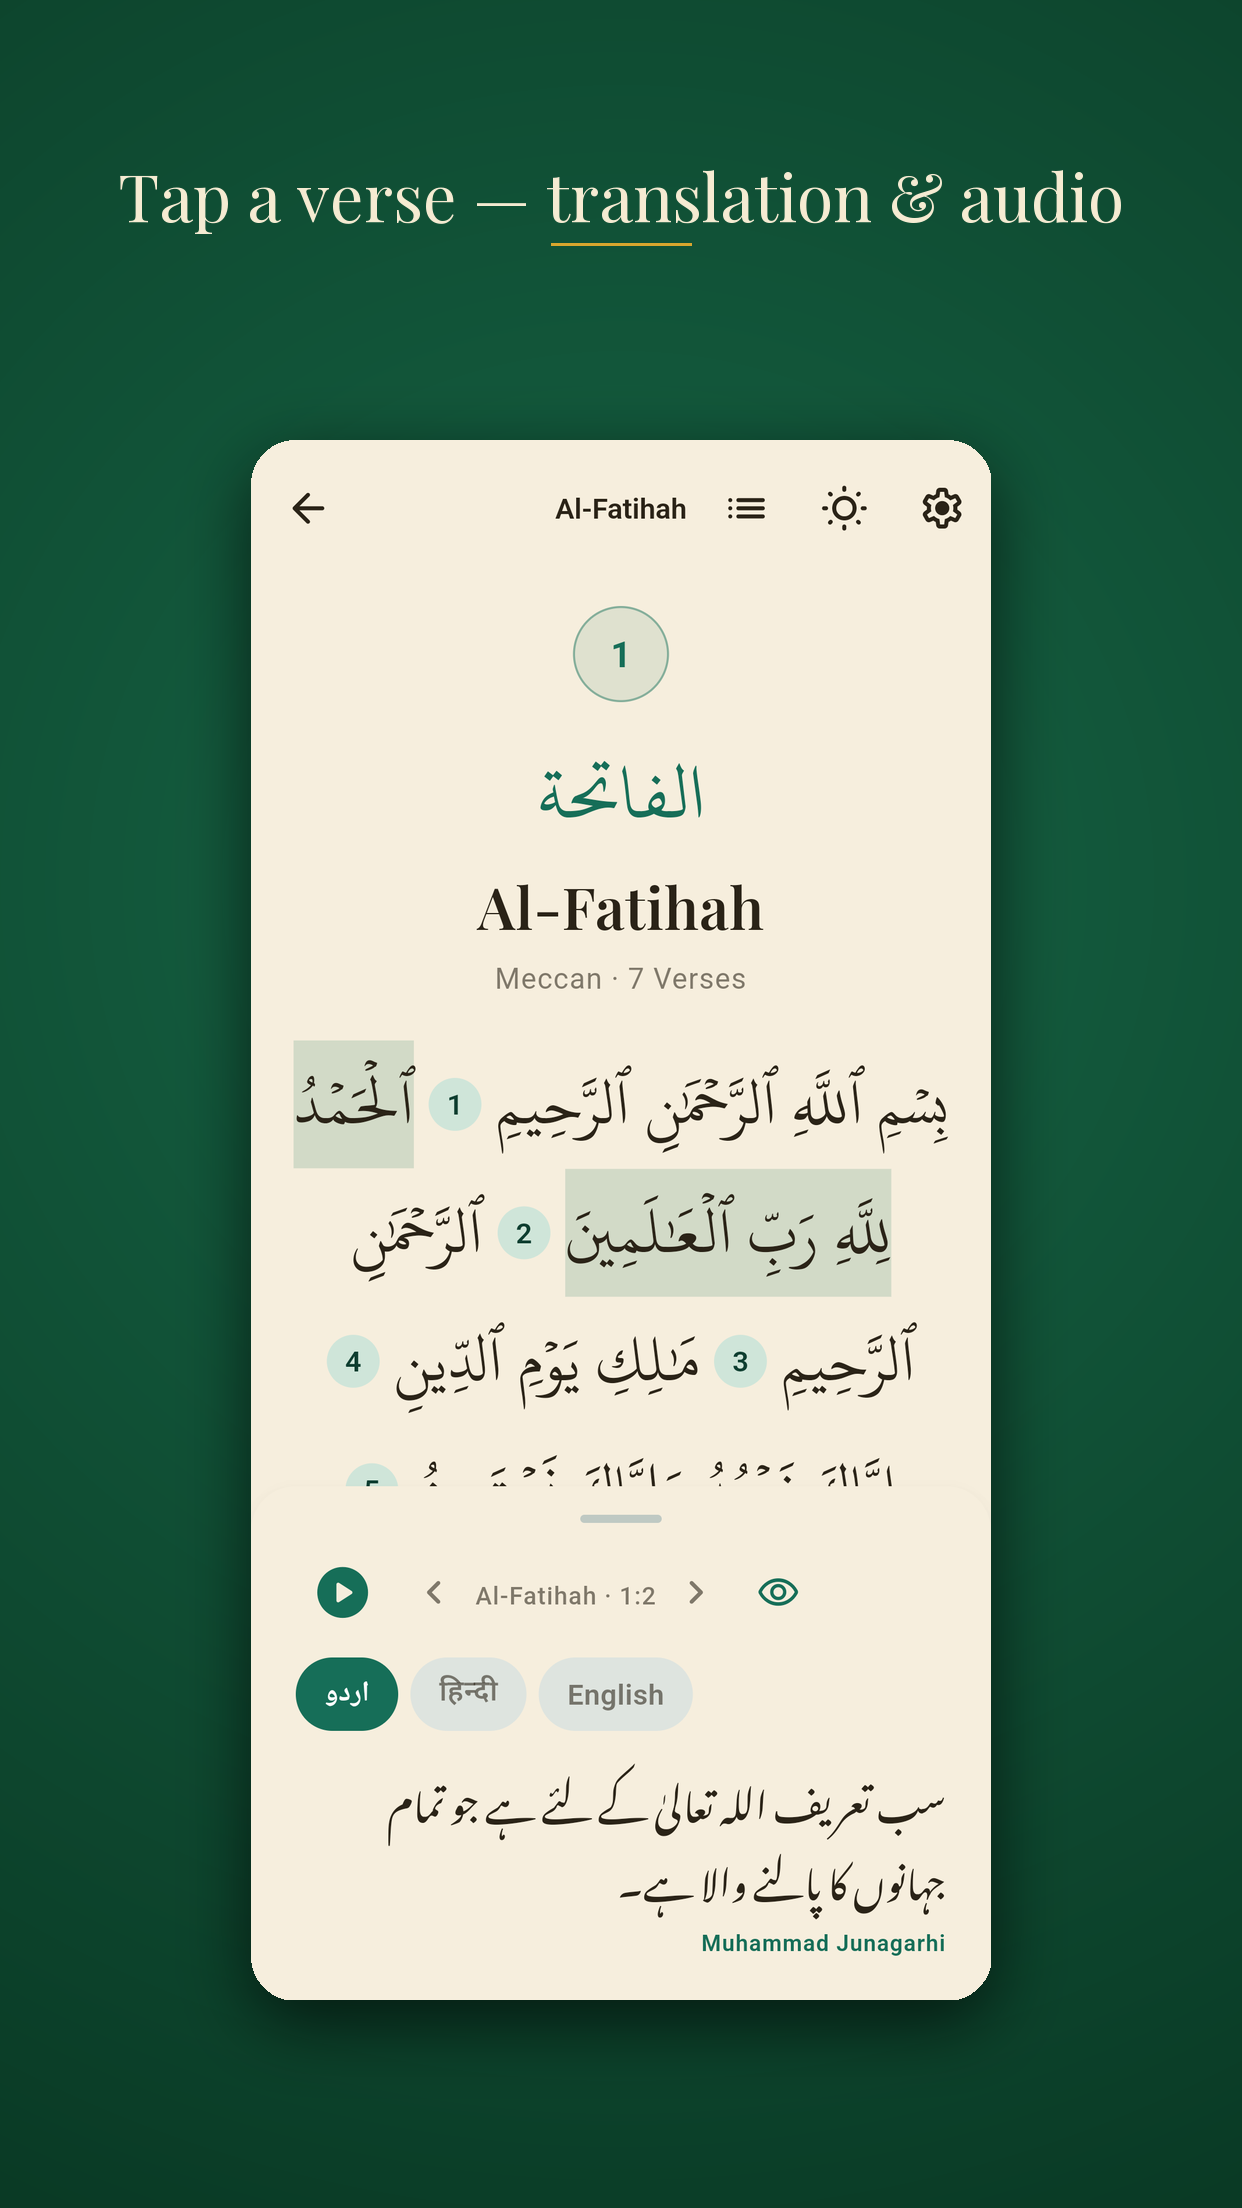
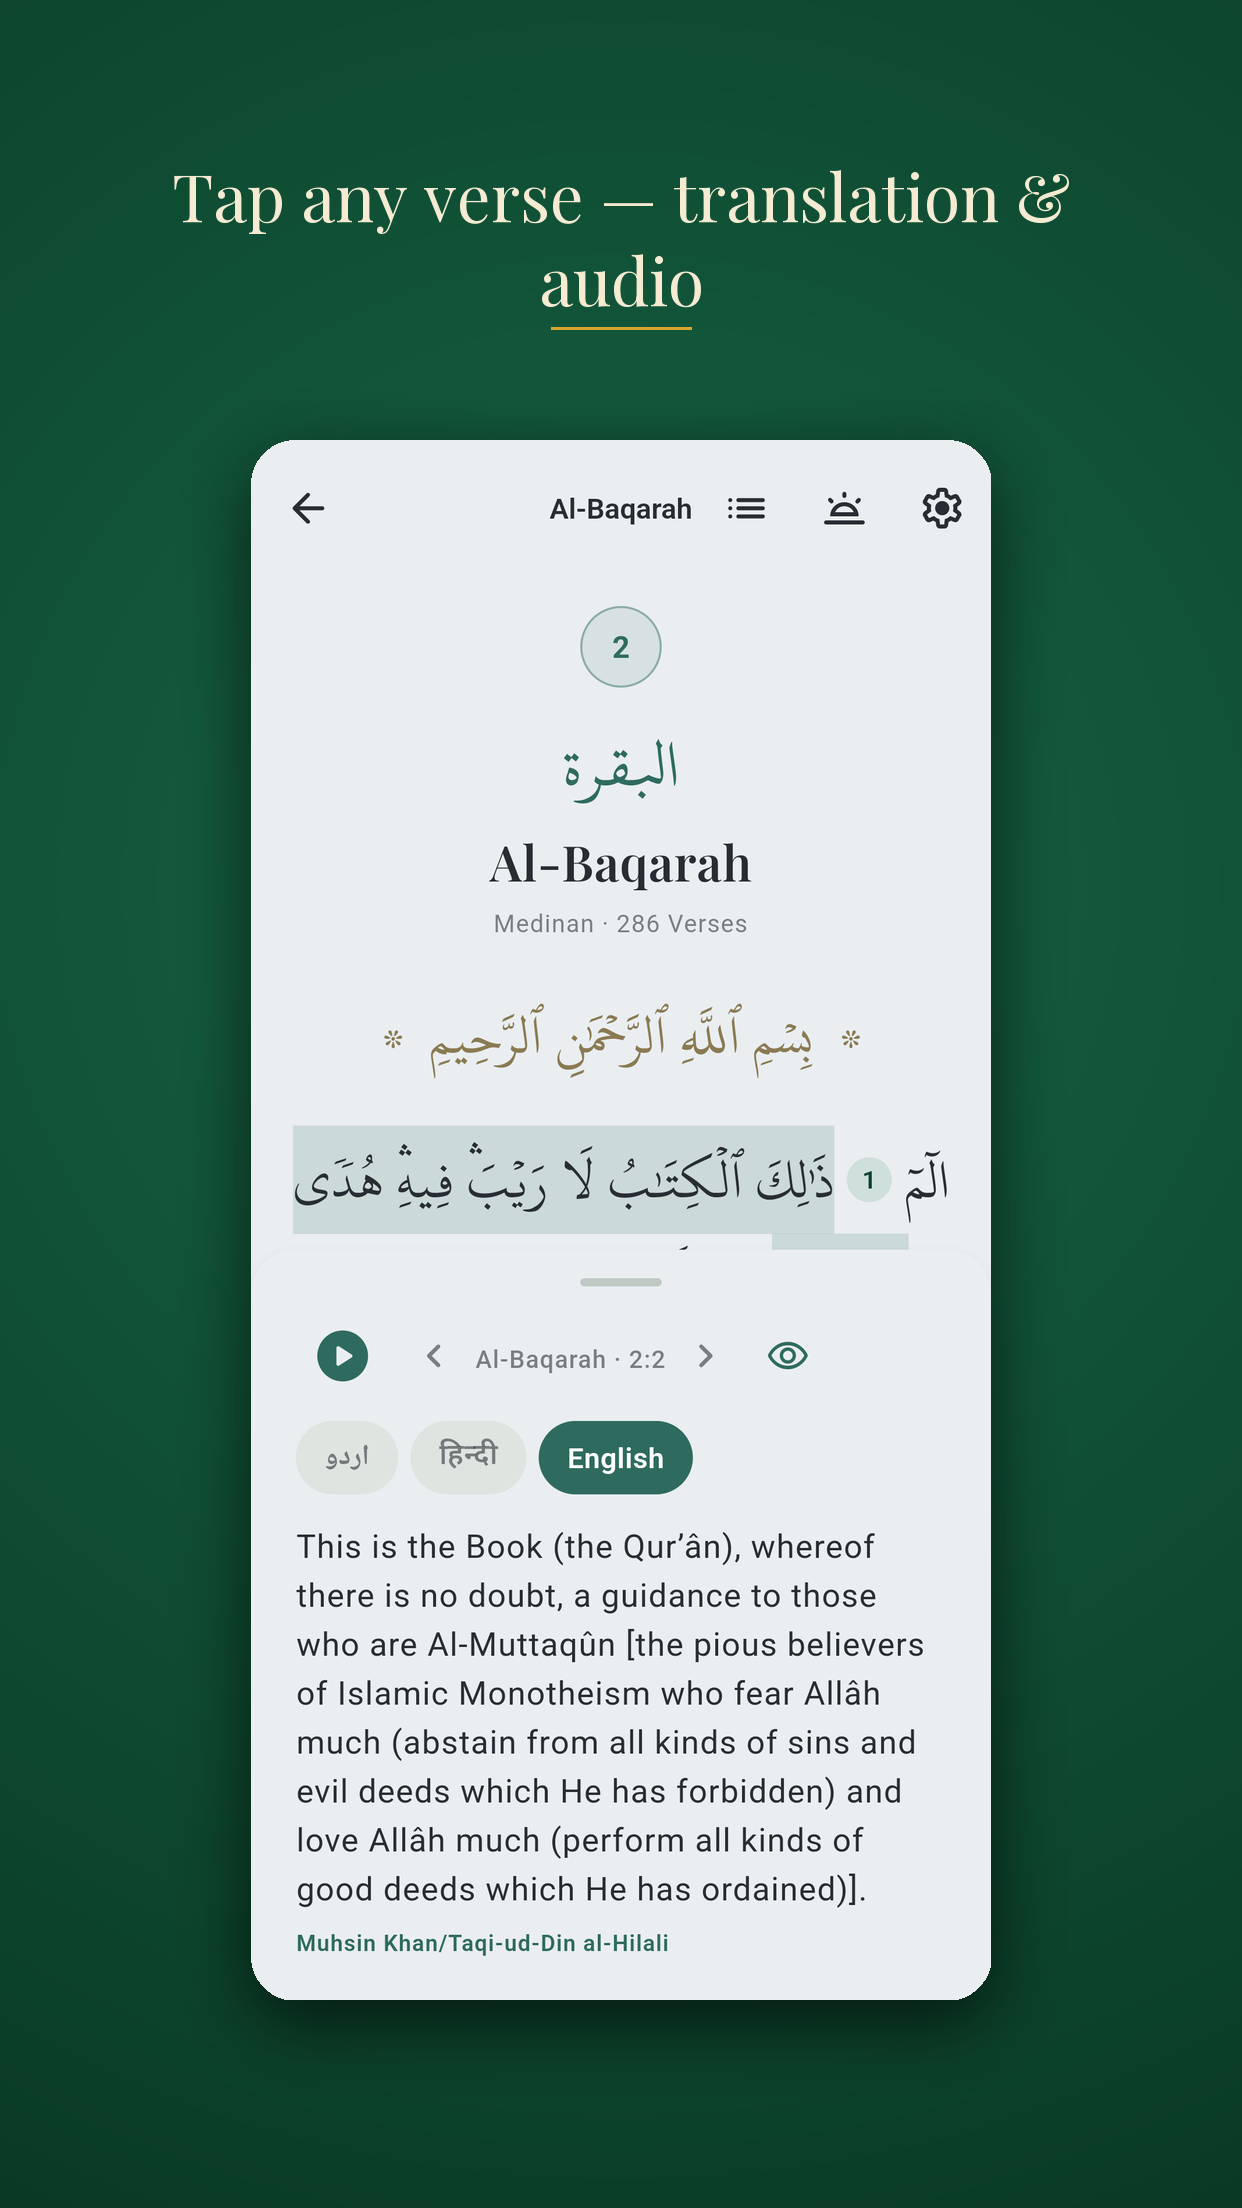
store-assets: rework phone screenshots into one Al-Baqarah / Fajr story
Rebuild phone slots 3-8 as a single continuous session (keep 1 home + 2
reading): all on Surah Al-Baqarah, Fajr light (#EAEEF1), anchored on verse
2:2, ending on pinch-to-zoom.

- 3 peek (tap 2:2 - translation & audio), 4 detailed (Urdu+Hindi+English on
  2:2), 5 audio (2:2 playing), 6 Light of Day (Fajr held), 7 script/size/
  language, 8 pinch-zoom (enlarged).
- New raws 13-18 (fresh device captures, 1272x2800); tablet set untouched
  (still shares 04/10/12 raws). make_screenshots.py PHONE list + captions
  updated; old indopak/prayer/settings phone slots drop out.

diff --git a/docs/store-assets/make_screenshots.py b/docs/store-assets/make_screenshots.py
@@ -47,13 +47,25 @@ CAPTIONS = {
     "10-audio.png":     "Listen — verse-by-verse recitation",
     "11-about.png":     "Offline, private — no sign-up",
     "12-fontzoom.png":  "Pinch to zoom — read at any size",
+    # New phone "one continuous session" story — all Al-Baqarah, Fajr light
+    # (#EAEEF1), same anchor verse 2:2, reading → … → pinch-zoom finale. These
+    # use fresh 13–18 filenames so the tablet set (which shares 04/10/12) is
+    # left untouched.
+    "13-peek.png":      "Tap any verse — translation & audio",
+    "14-detailed.png":  "Urdu, Hindi & English, together",
+    "15-audio.png":     "Listen — verse-by-verse recitation",
+    "16-light.png":     "Light of Day — a light for every hour",
+    "17-size.png":      "Your script, size & language",
+    "18-zoom.png":      "Pinch to zoom — read at any size",
 }
 
-# PHONE slot (up to 8) — headline features, in display order.
-PHONE = ["01-home.png", "02-reading.png", "03-peek.png", "04-detailed.png",
-         "05-indopak.png", "06-light.png", "07-prayer.png", "09-settings.png"]
+# PHONE slot (up to 8) — one continuous Al-Baqarah / Fajr / verse-2:2 story,
+# ending on pinch-to-zoom. Slots 1–2 kept; 3–8 rebuilt (see 13–18 above).
+PHONE = ["01-home.png", "02-reading.png", "13-peek.png", "14-detailed.png",
+         "15-audio.png", "16-light.png", "17-size.png", "18-zoom.png"]
 
 # TABLET slot (7-inch AND 10-inch, up to 8) — surfaces the extras + anchors.
+# Left as-is (breadth set); intentionally NOT part of the phone-story rework.
 TABLET = ["01-home.png", "02-reading.png", "04-detailed.png", "10-audio.png",
           "08-reminders.png", "12-fontzoom.png", "11-about.png", "07-prayer.png"]
 